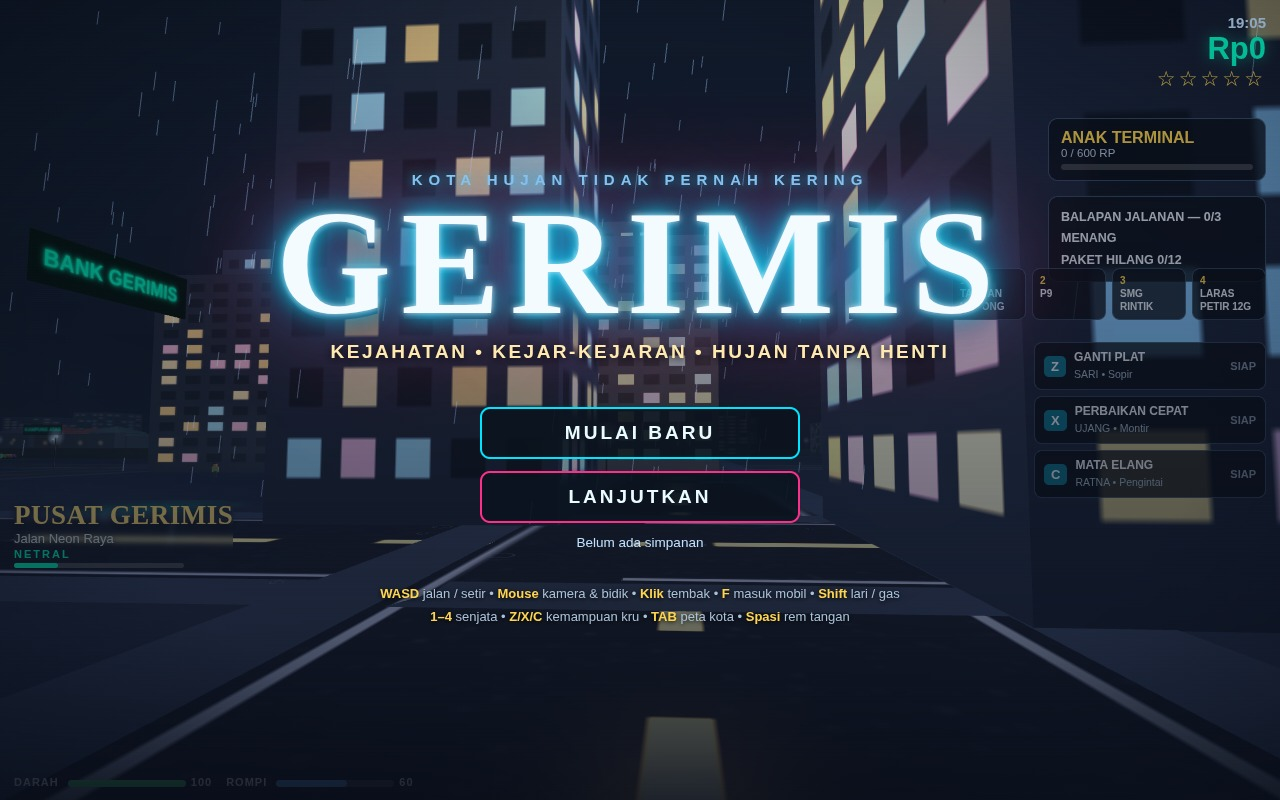
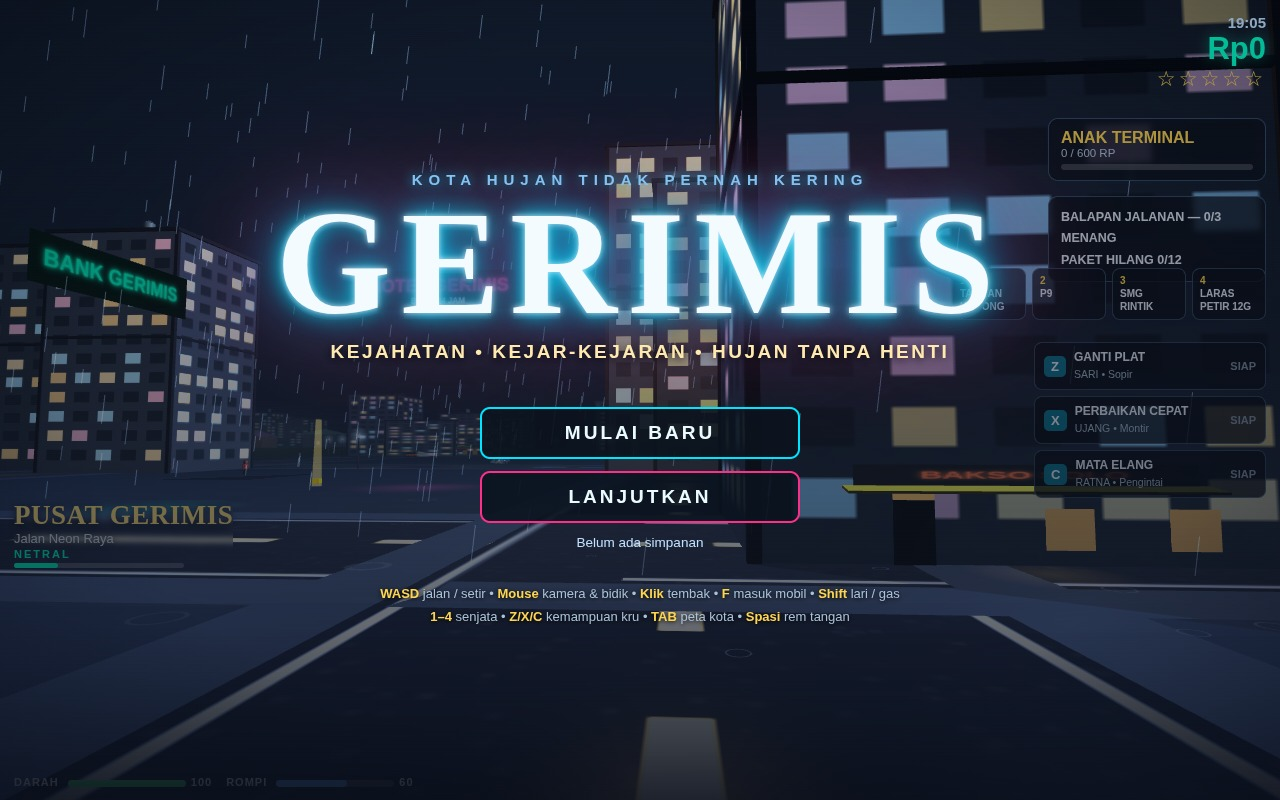
GERIMIS model pass stage 4 — shadow key light (directional, 2048 map, box rides the action), ambient trimmed for form; all four screenshots re-captured on the new models

diff --git a/game/src/main.js b/game/src/main.js
@@ -69,6 +69,8 @@ function applySave(data) {
 const renderer = new T.WebGLRenderer({ antialias: true });
 renderer.setSize(innerWidth, innerHeight);
 renderer.setPixelRatio(Math.min(devicePixelRatio, 1.6));
+renderer.shadowMap.enabled = true;
+renderer.shadowMap.type = T.PCFSoftShadowMap;
 document.getElementById('game').appendChild(renderer.domElement);
 
 const scene = new T.Scene();
@@ -76,13 +78,30 @@ scene.background = new T.Color(PAL.sky);
 scene.fog = new T.FogExp2(PAL.fog, PAL.fogDensity);
 const camera = new T.PerspectiveCamera(62, innerWidth / innerHeight, 0.1, 900);
 
-// Lighting recipe for the rain look: a cool ambient + hemisphere base, a
-// pale moon key light, and one warm point glow at the city centre so the
-// slate world always has amber in it — the MENCOLOK contrast the neon
-// signs then sharpen.
-scene.add(new T.AmbientLight(PAL.ambient, 0.75));
-const hemisphere = new T.HemisphereLight(PAL.hemiSky, PAL.hemiGround, 0.55); scene.add(hemisphere);
-const moonlight = new T.DirectionalLight(0x8fb4e8, 0.5); moonlight.position.set(-120, 200, -80); scene.add(moonlight);
+// Lighting recipe for the rain look: a cool ambient + hemisphere base,
+// a pale moon key light, and one warm point glow at the city centre so
+// the slate world always has amber in it — the MENCOLOK contrast the
+// neon signs then sharpen. The key light CASTS: one directional with
+// a modest shadow map whose ortho box rides the action (see loop),
+// ambient trimmed down so forms model with real light and shade
+// instead of reading as flat cutouts. Night-rain mood kept — just
+// with depth.
+scene.add(new T.AmbientLight(PAL.ambient, 0.52));
+const hemisphere = new T.HemisphereLight(PAL.hemiSky, PAL.hemiGround, 0.45); scene.add(hemisphere);
+const moonlight = new T.DirectionalLight(0x8fb4e8, 0.9);
+moonlight.position.set(-60, 100, -40);
+moonlight.castShadow = true;
+moonlight.shadow.mapSize.set(2048, 2048);
+moonlight.shadow.camera.left = -62;
+moonlight.shadow.camera.right = 62;
+moonlight.shadow.camera.top = 62;
+moonlight.shadow.camera.bottom = -62;
+moonlight.shadow.camera.near = 30;
+moonlight.shadow.camera.far = 280;
+moonlight.shadow.bias = -0.0004;
+moonlight.shadow.normalBias = 0.03;
+moonlight.shadow.camera.updateProjectionMatrix();
+scene.add(moonlight); scene.add(moonlight.target);
 const cityGlow = new T.PointLight(0xff9a3c, 0.7, 420); cityGlow.position.set(0, 26, 0); scene.add(cityGlow);
 
 buildCity(scene);
@@ -1068,6 +1087,12 @@ function loop() {
   requestAnimationFrame(loop);
   const dt = Math.min(clock.getDelta(), 0.05);
   const anchor = S.driving && playerCar ? playerCar.mesh.position : player.mesh.position;
+  // The shadow key light rides the action: its ortho box stays
+  // centred on what the camera watches (the title vista anchors on
+  // the downtown street instead of on Damar).
+  const lightAnchor = S.mode === 'title' ? TITLE_ANCHOR : anchor;
+  moonlight.position.set(lightAnchor.x - 60, 100, lightAnchor.z - 40);
+  moonlight.target.position.set(lightAnchor.x, 0, lightAnchor.z);
 
   if (S.mode === 'title') {
     titleAngkot.mesh.position.x += titleAngkot.speed * dt;

diff --git a/game/src/actors.js b/game/src/actors.js
@@ -22,8 +22,8 @@ function brick(w, h, d, color, opts = {}) {
       emissiveIntensity: opts.ei ?? 1,
     })
   );
-  mesh.castShadow = false;
-  mesh.receiveShadow = false;
+  mesh.castShadow = true;
+  mesh.receiveShadow = true;
   return mesh;
 }
 
@@ -199,7 +199,7 @@ export function makeGunMesh(kind) {
   const bodyMat = new T.MeshPhongMaterial({ color: 0x14161a, shininess: 70 });
   const steelMat = new T.MeshPhongMaterial({ color: 0x9aa4ae, shininess: 90 });
   const part = (geo, mat, x, y, z) => {
-    const m = new T.Mesh(geo, mat); m.position.set(x, y, z); g.add(m); return m;
+    const m = new T.Mesh(geo, mat); m.position.set(x, y, z); m.castShadow = true; g.add(m); return m;
   };
   if (kind === 'p9') {
     part(new T.BoxGeometry(0.055, 0.11, 0.24), bodyMat, 0, 0, 0.02);      // frame
@@ -257,6 +257,7 @@ function tyre(r = 0.34) {
     new T.MeshPhongMaterial({ color: 0x0c0d10, shininess: 40 })
   );
   w.rotation.z = Math.PI / 2; // cylinder axis across the car
+  w.castShadow = true;
   // Hubcap: a steel disc riding proud of both faces, with a dark
   // centre cap — the two-tone read is what makes a wheel read as a
   // wheel (not a black puck) at street distance. Children of the

diff --git a/game/src/city.js b/game/src/city.js
@@ -228,6 +228,16 @@ export function buildCity(scene) {
   buildStasiun(world);
   buildKampung(world);
   buildJalur(world);
+  // Shadow contract: solid Phong geometry casts and receives; flat
+  // Phong planes/discs (ground, roads, sidewalks, puddles) receive
+  // only. Basic-material overlays (signs, light pools, glows) stay
+  // out of the shadow pass entirely.
+  world.traverse(o => {
+    if (!o.isMesh || !o.material || o.material.type !== 'MeshPhongMaterial') return;
+    const flat = o.geometry && (o.geometry.type === 'PlaneGeometry' || o.geometry.type === 'CircleGeometry');
+    if (flat) o.receiveShadow = true;
+    else { o.castShadow = true; o.receiveShadow = true; }
+  });
   return world;
 }
 
